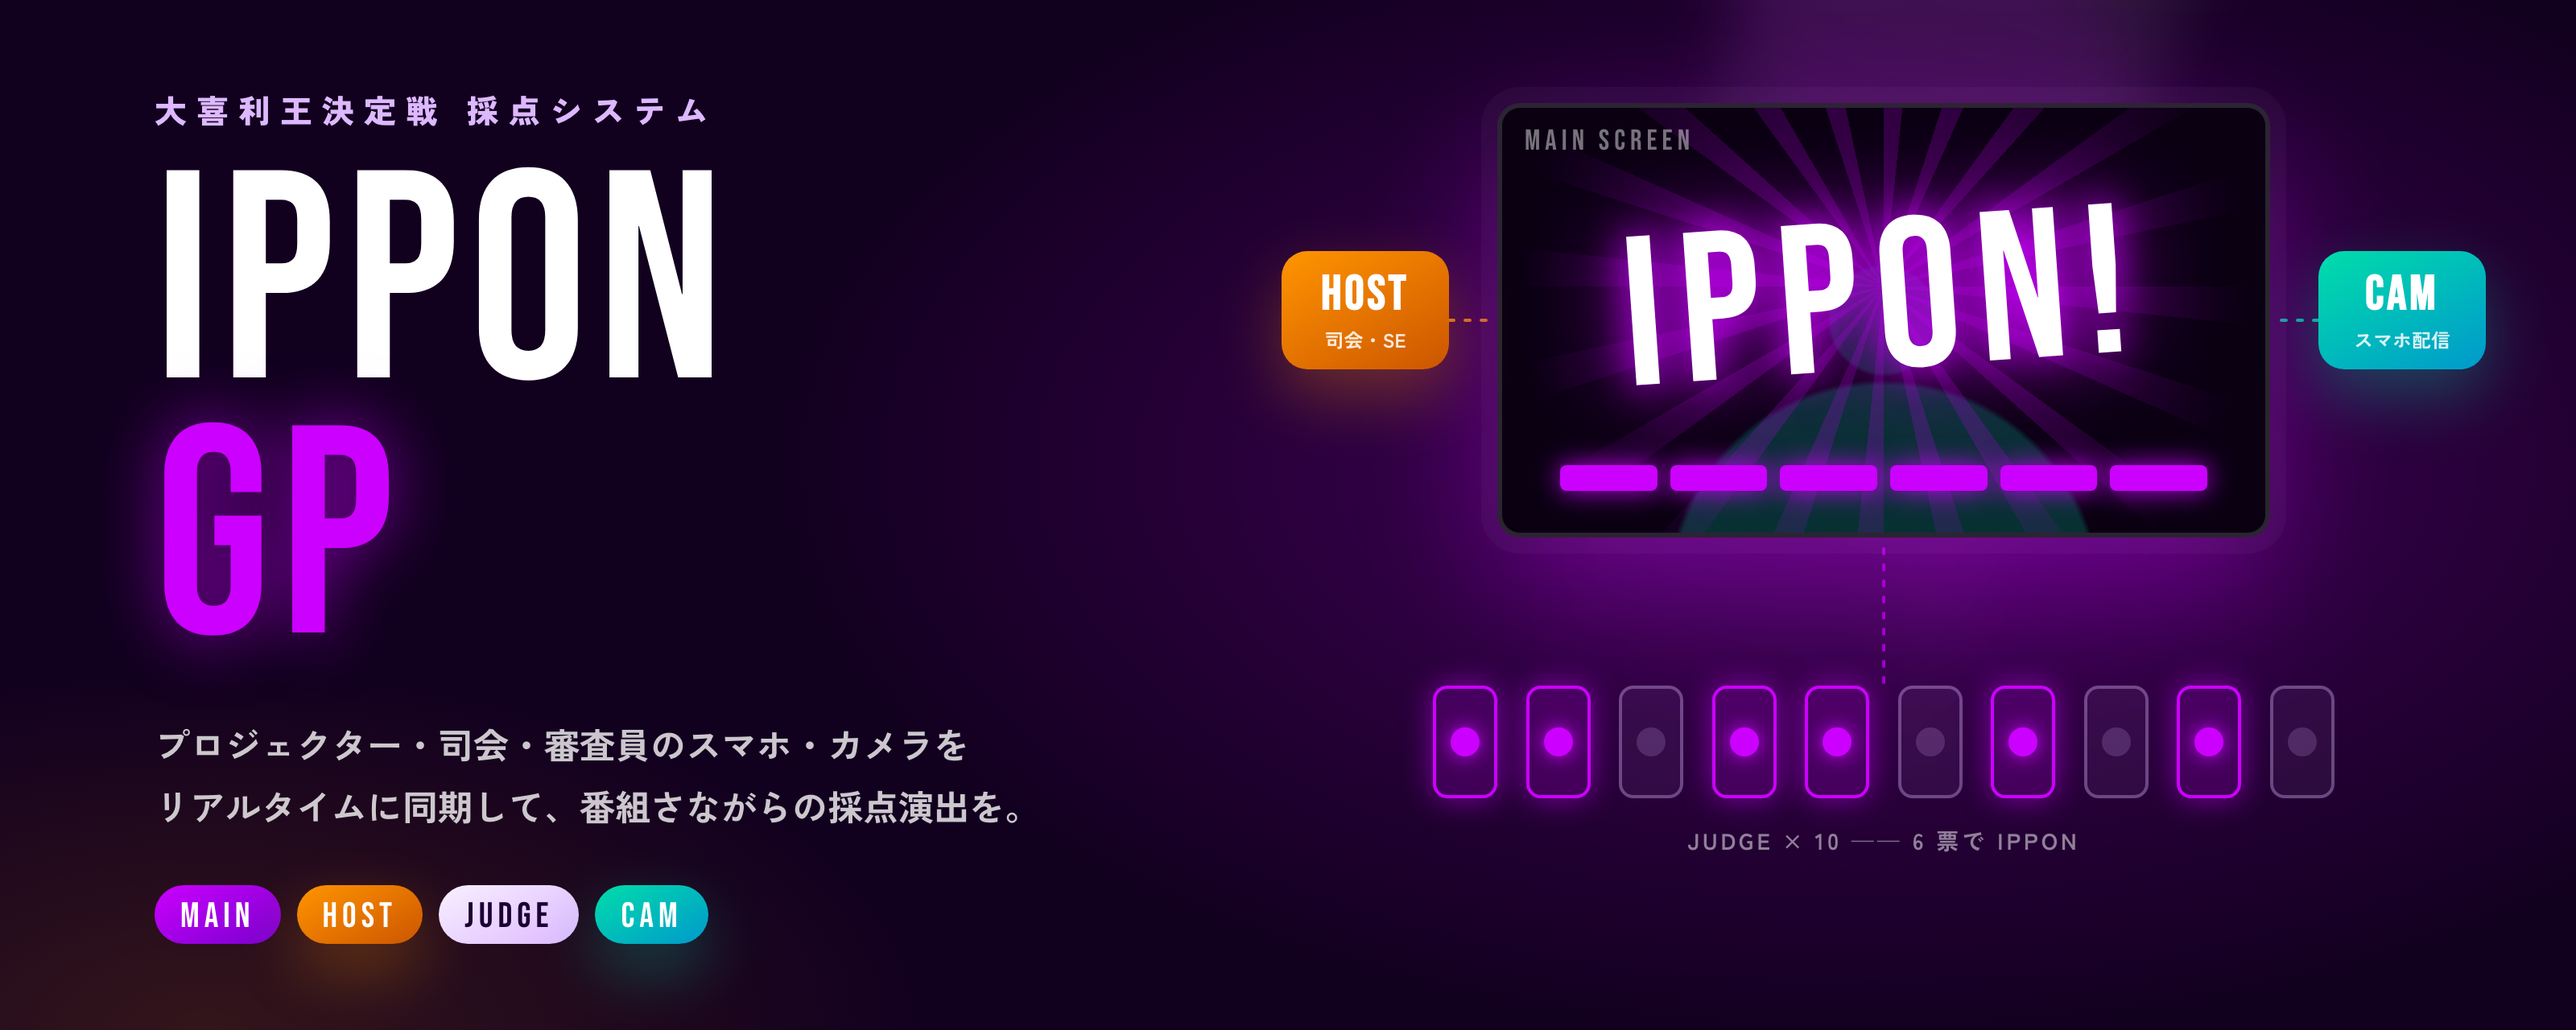
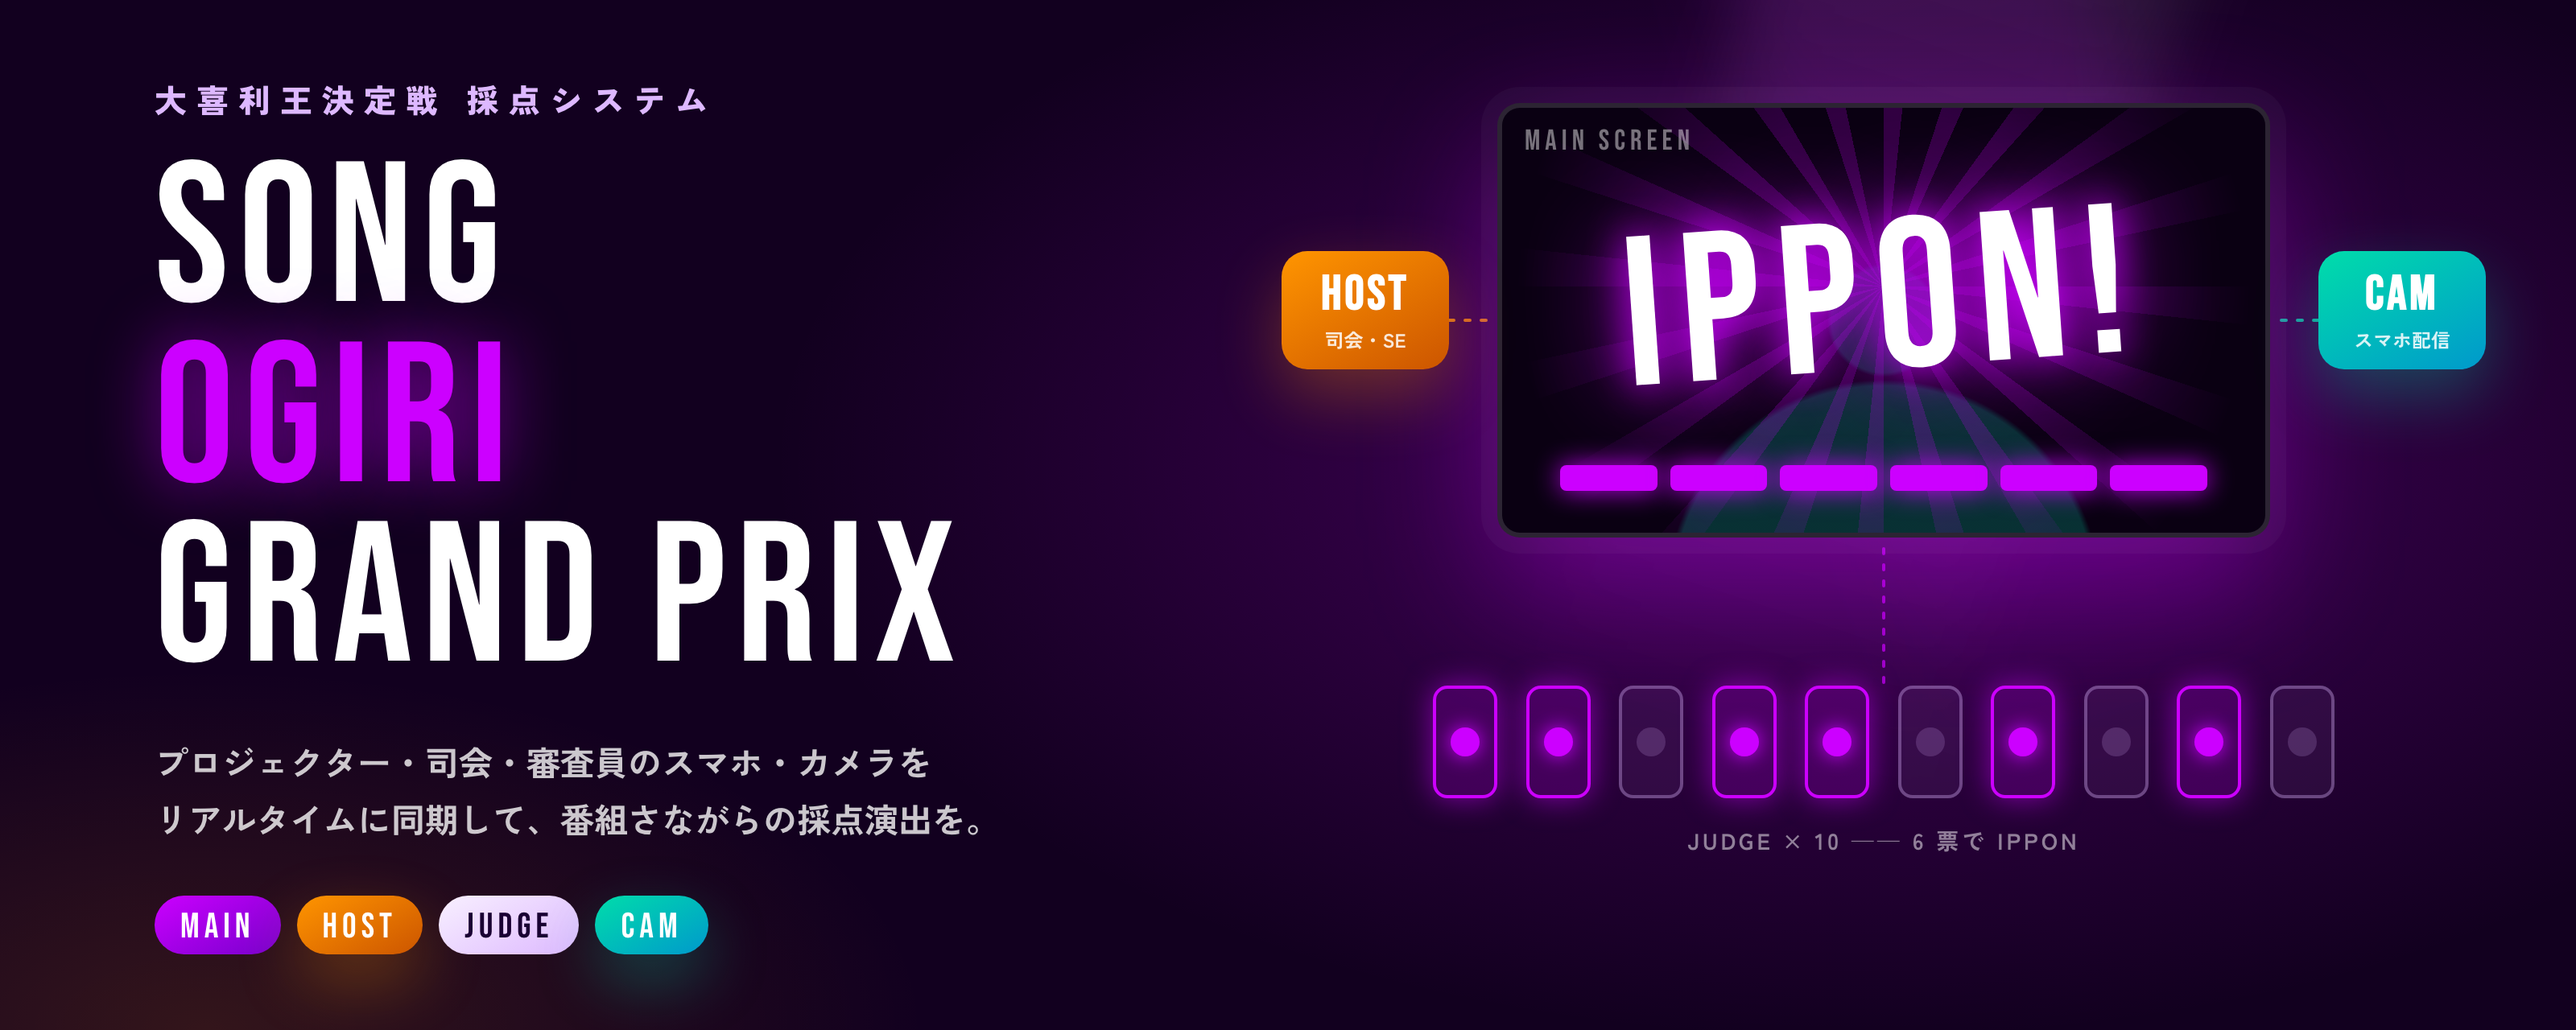
chore: unify the display name to SONG OGIRI GRAND PRIX
- page titles, HOST header, JUDGE logo and the MAIN scoreboard banner
  (was a mix of "IPPON GP", "IPPON GRAND PRIX", "IPPON - ..." and "SONG ŌGIRI GRAND PRIX")
- README title and the brand images (hero / social preview)
- drop "no big changes to the upstream UI" from ROADMAP's out-of-scope list

"IPPON" stays as the name of the 6-vote effect. The repo name and URLs are unchanged.

diff --git a/web/main/index.html b/web/main/index.html
@@ -4,7 +4,7 @@
 <meta charset="UTF-8">
 <script src="../config/config.js"></script>
 <meta name="viewport" content="width=device-width, initial-scale=1.0">
-<title>IPPON GRAND PRIX</title>
+<title>SONG OGIRI GRAND PRIX</title>
 <style>
 * { box-sizing: border-box; margin: 0; padding: 0; }
 body { background: #000; display: flex; align-items: center; justify-content: center; height: 100vh; overflow: hidden; position: relative; }
@@ -431,7 +431,7 @@ const STICKS = 10;
 function renderScoreboard(scores) {
   const sb = document.getElementById('scoreboard');
   sb.innerHTML = `
-<div style="width:100%;height:80px;background:#A100FF;display:flex;align-items:center;justify-content:center;flex-shrink:0;"><div style="color:#fff;font-size:52px;font-weight:900;letter-spacing:0.15em;text-align:center;text-shadow: 0 0 10px #fff, 0 0 20px #fff, 0 0 40px #c084fc, 0 0 80px #c084fc;">SONG ŌGIRI GRAND PRIX</div></div><div class="sb-stage" style="display:flex;flex-direction:row;align-items:flex-start;justify-content:center;gap:40px;width:100%;padding:4px 16px 0;height:904px;overflow:visible;">` + sbPlayers.map((p, pi) => {
+<div style="width:100%;height:80px;background:#A100FF;display:flex;align-items:center;justify-content:center;flex-shrink:0;"><div style="color:#fff;font-size:52px;font-weight:900;letter-spacing:0.15em;text-align:center;text-shadow: 0 0 10px #fff, 0 0 20px #fff, 0 0 40px #c084fc, 0 0 80px #c084fc;">SONG OGIRI GRAND PRIX</div></div><div class="sb-stage" style="display:flex;flex-direction:row;align-items:flex-start;justify-content:center;gap:40px;width:100%;padding:4px 16px 0;height:904px;overflow:visible;">` + sbPlayers.map((p, pi) => {
     const sc = scores[4 - pi] || 0;
     const lit = sc % STICKS === 0 && sc > 0 ? STICKS : sc % STICKS;
     const tubes = Array.from({length: STICKS}, (_, i) => `

diff --git a/docs/images/src/hero.html b/docs/images/src/hero.html
@@ -28,9 +28,9 @@ body { width: 1600px; height: 640px; }
 /* 左: タイトル */
 .copy { position: absolute; left: 96px; top: 0; bottom: 0; width: 640px; display: flex; flex-direction: column; justify-content: center; z-index: 2; }
 .kicker { font-size: 20px; font-weight: 900; letter-spacing: 6px; color: var(--magenta-soft); }
-.title { font-family: 'Bebas Neue', sans-serif; font-size: 184px; line-height: 0.86; letter-spacing: 6px; color: #fff; margin-top: 18px; }
+.title { font-family: 'Bebas Neue', sans-serif; font-size: 124px; line-height: 0.9; letter-spacing: 6px; color: #fff; margin-top: 18px; }
 .title span { color: var(--magenta); text-shadow: 0 0 40px rgba(204,0,255,0.6); }
-.lead { font-size: 22px; font-weight: 700; line-height: 1.75; color: rgba(255,255,255,0.78); margin-top: 26px; }
+.lead { font-size: 21px; font-weight: 700; line-height: 1.7; color: rgba(255,255,255,0.78); margin-top: 26px; }
 .chips { display: flex; gap: 10px; margin-top: 30px; }
 
 /* 右: 会場の構成図 */
@@ -84,7 +84,7 @@ body { width: 1600px; height: 640px; }
 <div class="stage">
   <div class="copy">
     <div class="kicker">大喜利王決定戦 採点システム</div>
-    <div class="title">IPPON<br><span>GP</span></div>
+    <div class="title">SONG<br><span>OGIRI</span><br>GRAND PRIX</div>
     <div class="lead">プロジェクター・司会・審査員のスマホ・カメラを<br>リアルタイムに同期して、番組さながらの採点演出を。</div>
     <div class="chips">
       <span class="chip main">MAIN</span><span class="chip host">HOST</span><span class="chip judge">JUDGE</span><span class="chip cam">CAM</span>

diff --git a/docs/images/src/social-preview.html b/docs/images/src/social-preview.html
@@ -18,7 +18,7 @@ body { width: 1280px; height: 640px; }
   -webkit-mask: radial-gradient(circle, #000 0 18%, transparent 52%); mask: radial-gradient(circle, #000 0 18%, transparent 52%);
 }
 .kicker { position: relative; font-size: 28px; font-weight: 900; letter-spacing: 10px; color: var(--magenta-soft); }
-.title { position: relative; font-family: 'Bebas Neue', sans-serif; font-size: 250px; line-height: 0.9; letter-spacing: 10px; color: #fff; margin-top: 10px;
+.title { position: relative; font-family: 'Bebas Neue', sans-serif; font-size: 150px; line-height: 0.92; letter-spacing: 8px; text-align: center; color: #fff; margin-top: 10px;
   text-shadow: 0 0 30px rgba(204,0,255,0.55); }
 .title span { color: var(--magenta); text-shadow: 0 0 40px rgba(204,0,255,0.9); }
 .meter { position: relative; display: flex; gap: 12px; width: 720px; margin-top: 18px; }
@@ -31,7 +31,7 @@ body { width: 1280px; height: 640px; }
 <div class="stage">
   <div class="burst"></div>
   <div class="kicker">大喜利王決定戦 採点システム</div>
-  <div class="title">IPPON <span>GP</span></div>
+  <div class="title">SONG <span>OGIRI</span><br>GRAND PRIX</div>
   <div class="meter"><i></i><i></i><i></i><i></i><i></i><i></i></div>
   <div class="chips"><span class="chip main">MAIN</span><span class="chip host">HOST</span><span class="chip judge">JUDGE</span><span class="chip cam">CAM</span></div>
 </div>

diff --git a/web/judge/index.html b/web/judge/index.html
@@ -4,7 +4,7 @@
 <meta charset="UTF-8">
 <script src="../config/config.js"></script>
 <meta name="viewport" content="width=device-width, initial-scale=1.0, maximum-scale=1.0, user-scalable=no">
-<title>IPPON - 審査員</title>
+<title>審査員 | SONG OGIRI GRAND PRIX</title>
 <style>
 * { box-sizing: border-box; margin: 0; padding: 0; touch-action: manipulation; }
 [data-netlify-badge], a[href*="netlify.com"] { display: none !important; }
@@ -53,19 +53,19 @@ body { background: #000; font-family: sans-serif; display: flex; flex-direction:
 <body>
 
 <div id="view-select">
-  <div class="logo">IPPON GRAND PRIX</div>
+  <div class="logo">SONG OGIRI GRAND PRIX</div>
   <div class="select-title">審査員選択</div>
   <div class="select-grid" id="select-grid"></div>
 </div>
 
 <div id="view-vote">
-  <div class="logo">IPPON GRAND PRIX</div>
+  <div class="logo">SONG OGIRI GRAND PRIX</div>
   <button class="vote-btn active" id="vote-btn" onclick="doVote()"><span id="vote-name"></span><span class="vote-sub" id="vote-sub"></span></button>
   <button class="back-link" onclick="goBack()">戻る</button>
 </div>
 
 <div id="view-all">
-  <div class="logo">IPPON GRAND PRIX</div>
+  <div class="logo">SONG OGIRI GRAND PRIX</div>
   <div class="grid" id="grid"></div>
   <button class="back-link" onclick="goBackFromAll()">戻る</button>
 </div>

diff --git a/web/host/index.html b/web/host/index.html
@@ -4,7 +4,7 @@
 <meta charset="UTF-8">
 <script src="../config/config.js"></script>
 <meta name="viewport" content="width=device-width, initial-scale=1.0, maximum-scale=1.0, user-scalable=no">
-<title>IPPON - 司会</title>
+<title>司会 | SONG OGIRI GRAND PRIX</title>
 <style>
 * { box-sizing: border-box; margin: 0; padding: 0; touch-action: manipulation; }
 html, body { overflow: hidden; height: 100%; }
@@ -83,7 +83,7 @@ h1 { color: #f5c400; font-size: 14px; letter-spacing: 2px; margin-bottom: 6px; }
 </head>
 <body>
 
-<h1>IPPON - 司会</h1>
+<h1>SONG OGIRI GRAND PRIX - 司会</h1>
 <div id="vote-count">0</div>
 <div id="vote-label">票 / 6</div>
 

diff --git a/web/ippon_camera.html b/web/ippon_camera.html
@@ -5,7 +5,7 @@
 <!-- 旧 URL（配布済みの QR・ブックマーク）の互換用。クエリとハッシュを引き継いで camera/ に転送する -->
 <meta http-equiv="refresh" content="0; url=camera/">
 <script>location.replace('camera/' + location.search + location.hash);</script>
-<title>IPPON GRAND PRIX</title>
+<title>SONG OGIRI GRAND PRIX</title>
 </head>
 <body><a href="camera/">移動しました → camera/</a></body>
 </html>

diff --git a/web/ippon_judge.html b/web/ippon_judge.html
@@ -5,7 +5,7 @@
 <!-- 旧 URL（配布済みの QR・ブックマーク）の互換用。クエリとハッシュを引き継いで judge/ に転送する -->
 <meta http-equiv="refresh" content="0; url=judge/">
 <script>location.replace('judge/' + location.search + location.hash);</script>
-<title>IPPON GRAND PRIX</title>
+<title>SONG OGIRI GRAND PRIX</title>
 </head>
 <body><a href="judge/">移動しました → judge/</a></body>
 </html>

diff --git a/web/camera/index.html b/web/camera/index.html
@@ -4,7 +4,7 @@
 <meta charset="UTF-8">
 <script src="../config/config.js"></script>
 <meta name="viewport" content="width=device-width, initial-scale=1.0, maximum-scale=1.0, user-scalable=no">
-<title>IPPON - カメラ</title>
+<title>カメラ | SONG OGIRI GRAND PRIX</title>
 <script src="https://unpkg.com/peerjs@1.5.2/dist/peerjs.min.js"></script>
 <style>
 * { box-sizing: border-box; margin: 0; padding: 0; touch-action: manipulation; }

diff --git a/web/ippon_host.html b/web/ippon_host.html
@@ -5,7 +5,7 @@
 <!-- 旧 URL（配布済みの QR・ブックマーク）の互換用。クエリとハッシュを引き継いで host/ に転送する -->
 <meta http-equiv="refresh" content="0; url=host/">
 <script>location.replace('host/' + location.search + location.hash);</script>
-<title>IPPON GRAND PRIX</title>
+<title>SONG OGIRI GRAND PRIX</title>
 </head>
 <body><a href="host/">移動しました → host/</a></body>
 </html>

diff --git a/web/ippon_main.html b/web/ippon_main.html
@@ -5,7 +5,7 @@
 <!-- 旧 URL（配布済みの QR・ブックマーク）の互換用。クエリとハッシュを引き継いで main/ に転送する -->
 <meta http-equiv="refresh" content="0; url=main/">
 <script>location.replace('main/' + location.search + location.hash);</script>
-<title>IPPON GRAND PRIX</title>
+<title>SONG OGIRI GRAND PRIX</title>
 </head>
 <body><a href="main/">移動しました → main/</a></body>
 </html>

diff --git a/web/index.html b/web/index.html
@@ -3,7 +3,7 @@
 <head>
 <meta charset="UTF-8">
 <meta name="viewport" content="width=device-width, initial-scale=1.0">
-<title>IPPON GP</title>
+<title>SONG OGIRI GRAND PRIX</title>
 <script src="https://cdnjs.cloudflare.com/ajax/libs/qrcodejs/1.0.0/qrcode.min.js"></script>
 <link href="https://fonts.googleapis.com/css2?family=Bebas+Neue&family=Zen+Kaku+Gothic+New:wght@700;900&display=swap" rel="stylesheet">
 <style>

diff --git a/README.md b/README.md
@@ -1,6 +1,6 @@
-# IPPON GP — 大喜利王決定戦 採点システム
+# SONG OGIRI GRAND PRIX — 大喜利王決定戦 採点システム
 
-![IPPON GP — プロジェクター・司会・審査員のスマホ・カメラをリアルタイムに同期する採点演出システム](docs/images/hero.png)
+![SONG OGIRI GRAND PRIX — プロジェクター・司会・審査員のスマホ・カメラをリアルタイムに同期する採点演出システム](docs/images/hero.png)
 
 > 社内フェス向け「IPPON グランプリ」パロディ企画のための、リアルタイム採点・演出システム。
 > 本リポジトリは [ryosuke884884-hash/ippon-gp](https://github.com/ryosuke884884-hash/ippon-gp) のフォークです。
